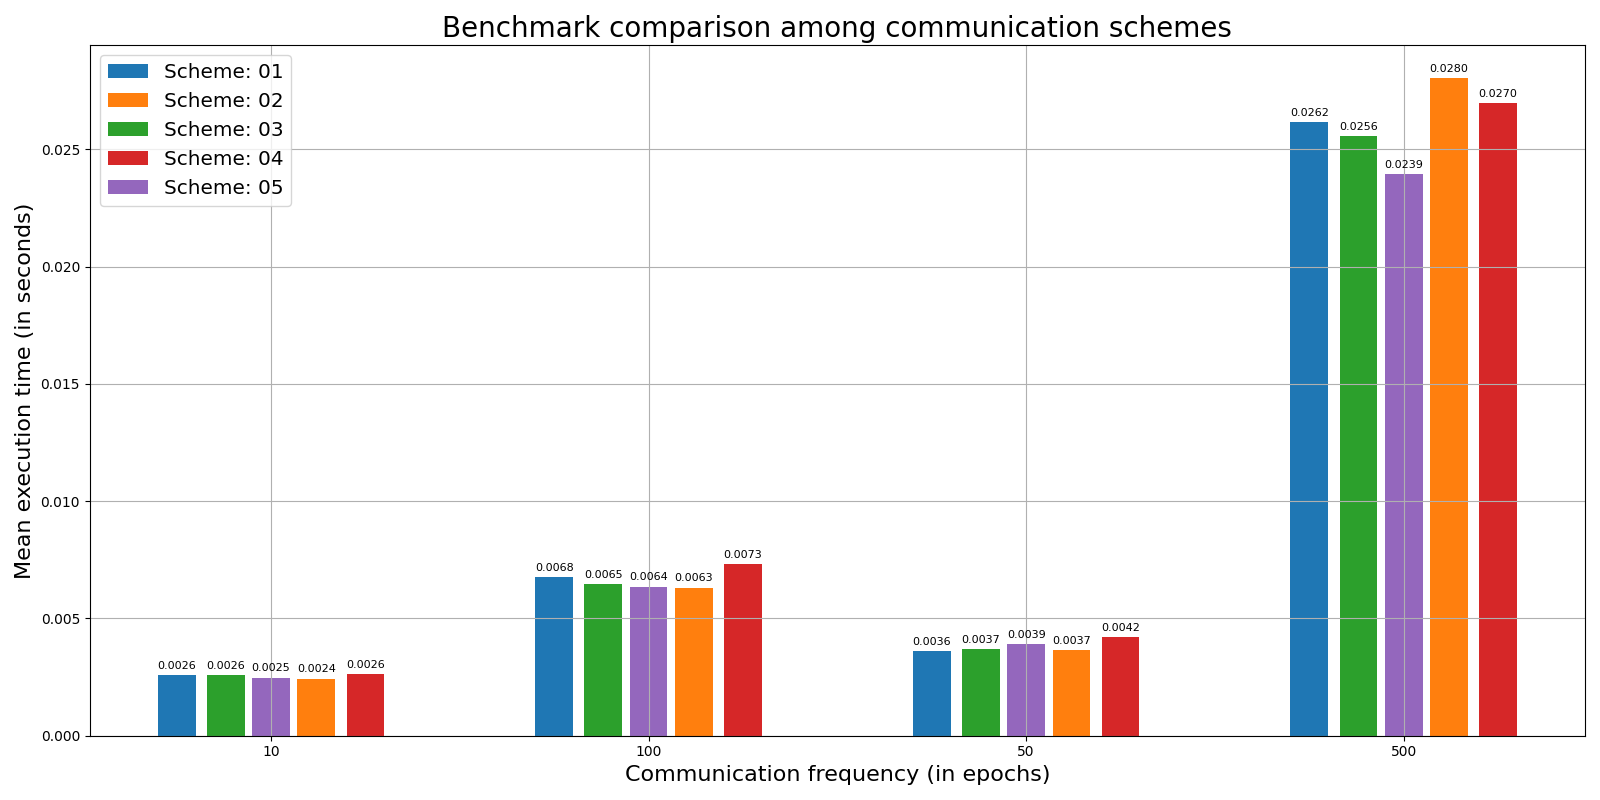
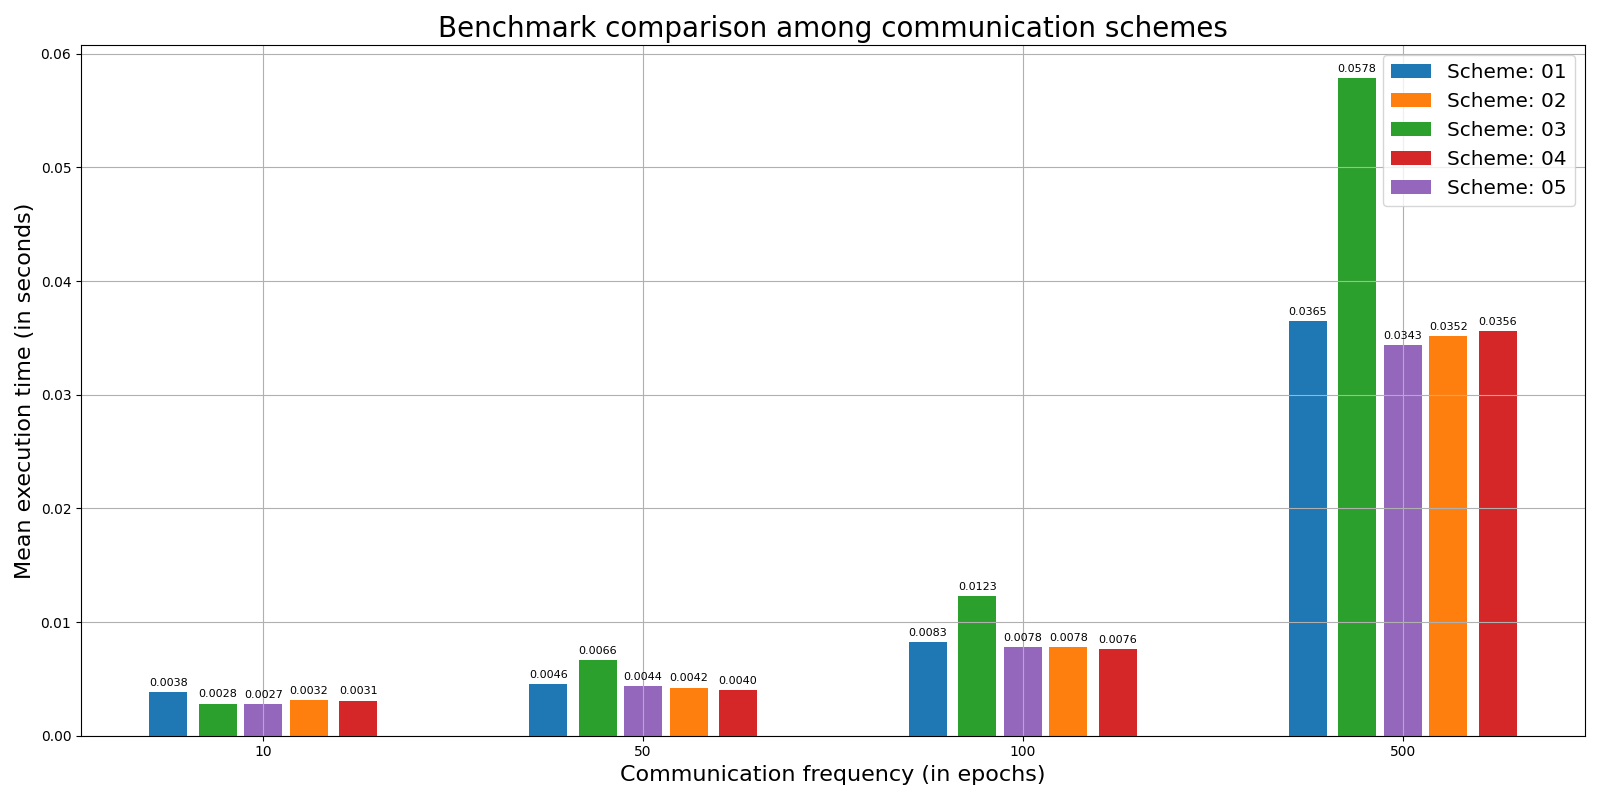
fixed ordering on x-Axis to be upwards

diff --git a/results/benchmark_visual.py b/results/benchmark_visual.py
@@ -3,12 +3,24 @@ import glob
 import numpy as np
 import matplotlib.pyplot as plt
 import argparse
+import re
+
+def atoi(text):
+    return int(text) if text.isdigit() else text
+
+def natural_keys(text):
+    '''
+    alist.sort(key=natural_keys) sorts in human order
+    http://nedbatchelder.com/blog/200712/human_sorting.html
+    (See Toothy's implementation in the comments)
+    '''
+    return [ atoi(c) for c in re.split(r'(\d+)', text) ]
 
 def load_data(path):
 
     database = {}
-    filenames = glob.glob(os.path.join(path, "*.npz"))
-
+    filenames = sorted(glob.glob(os.path.join(path, "*.npz")), key = natural_keys)
+    
     for file in filenames:
         data = np.load(file)
         key = file.split("/")[-1]
@@ -49,7 +61,7 @@ def plot_benchmark_distr(path, data):
             times[result[0]] = {}
     
     comm = np.array(comm)
-    comm = list(np.unique(comm))
+    comm = sorted(np.unique(comm), key = natural_keys)
     labels = list(times.keys())    
     
     for label in list(data.keys()):
